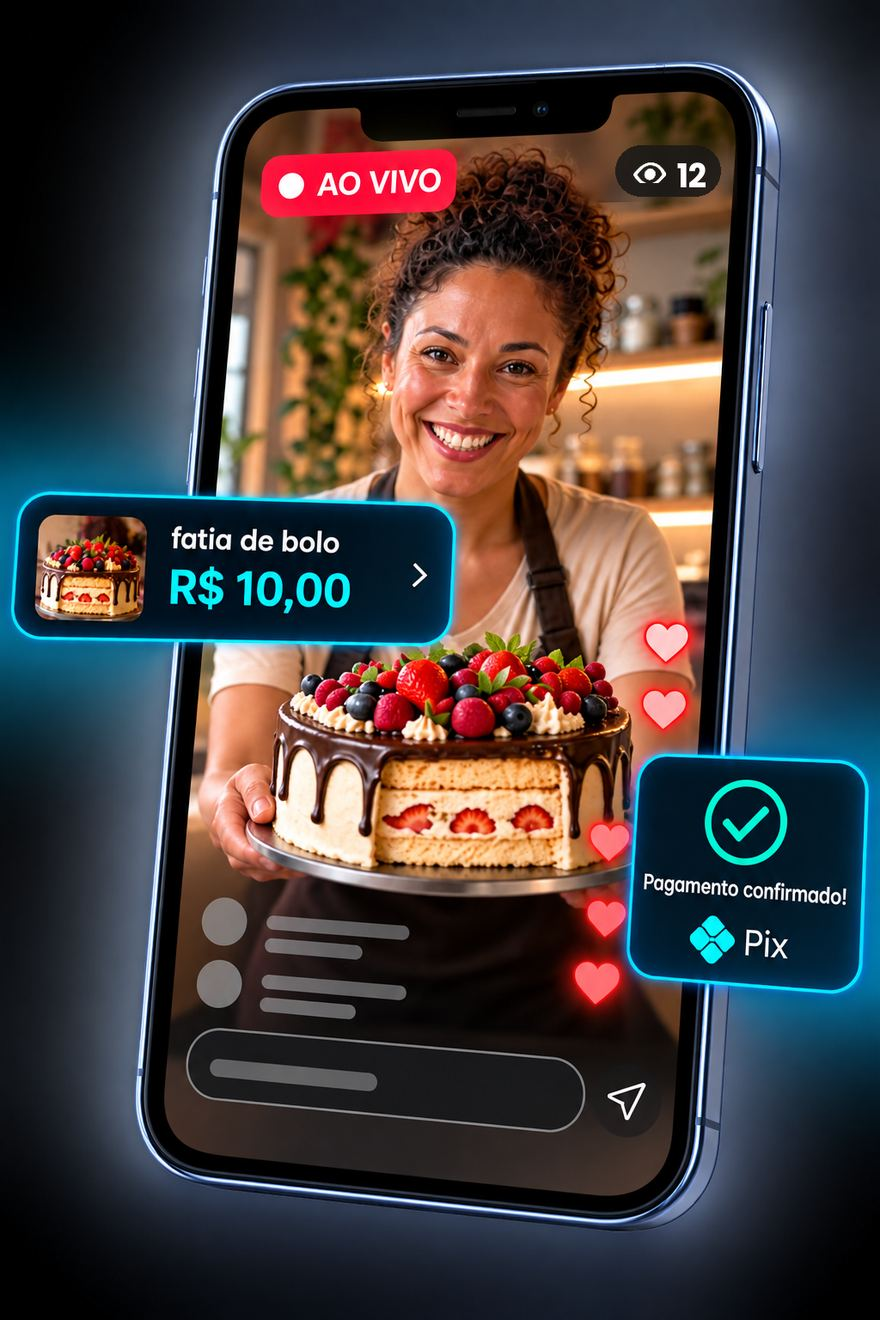
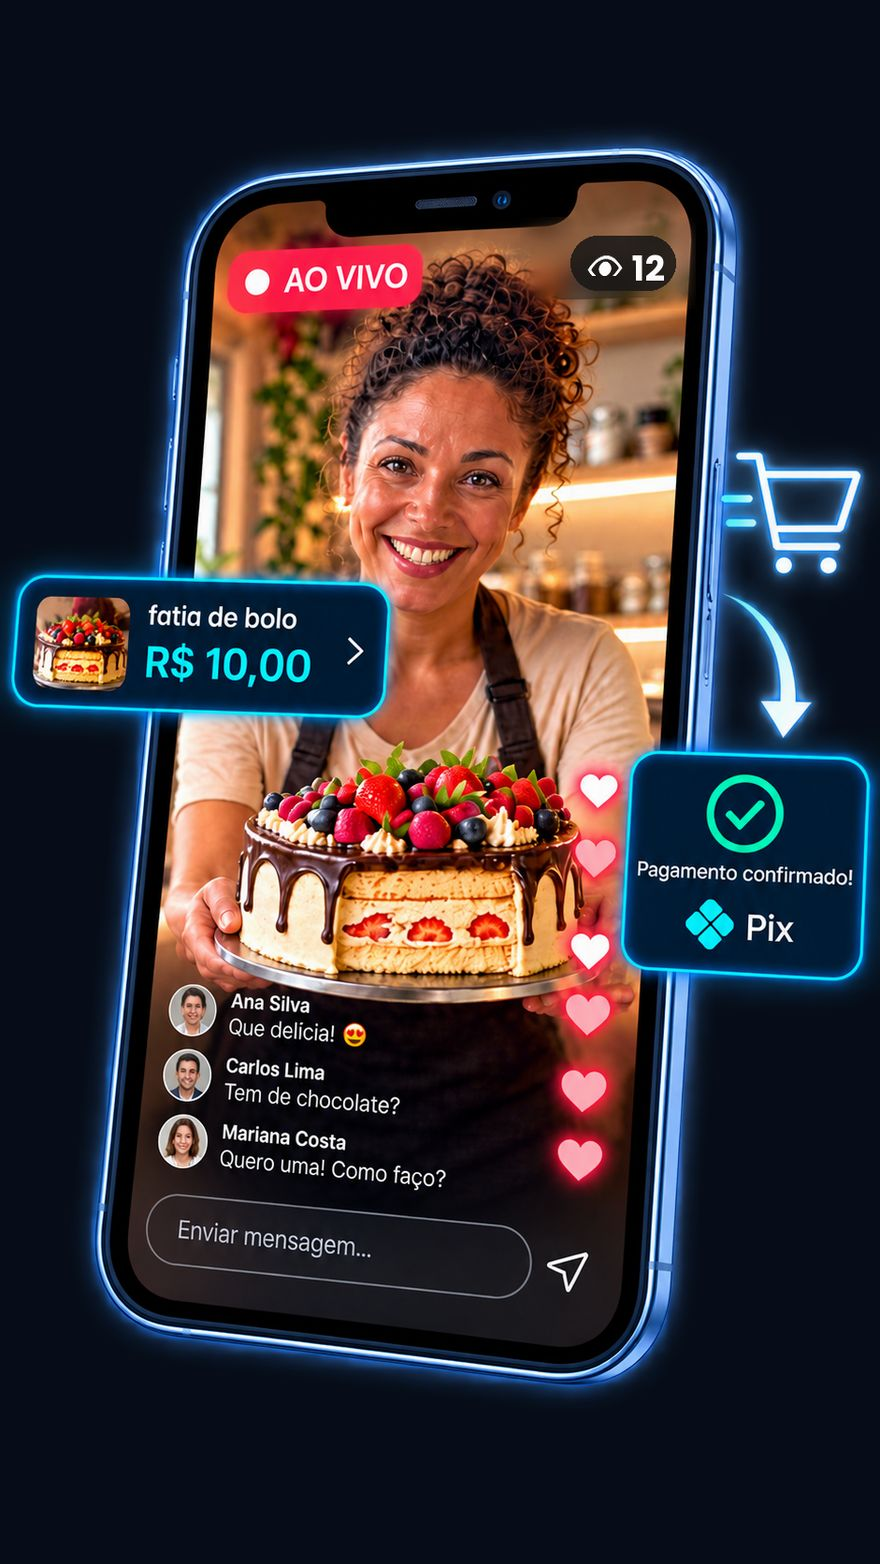
Add files via upload

diff --git a/aovivo.html b/aovivo.html
@@ -136,10 +136,9 @@ h1,h2,h3{letter-spacing:-.8px;line-height:1.12;font-weight:800}
 .avCheck{flex:0 0 21px;width:21px;height:21px;border-radius:50%;margin-top:1px;
   background:rgba(37,227,155,.16);border:1px solid rgba(37,227,155,.5);color:var(--mv-ok);
   display:flex;align-items:center;justify-content:center;font-size:12px;font-weight:800}
-.avFoto{position:relative;justify-self:center;width:100%;max-width:392px}
-.avFoto img{border-radius:var(--mv-r-xl);width:auto;max-width:100%;max-height:min(620px,66vh);margin-inline:auto}
-.avFoto::after{content:"";position:absolute;inset:-8% -6% -4%;z-index:-1;border-radius:50%;
-  background:radial-gradient(closest-side,rgba(0,150,255,.3),transparent 72%);filter:blur(6px)}
+.avFoto{position:relative;justify-self:center;width:100%;max-width:430px}
+.avFoto img{width:auto;max-width:100%;max-height:min(760px,80vh);margin-inline:auto}
+/* o brilho em volta do aparelho vem da propria arte, em PNG/WebP com alfa */
 .avFotoNota{font-size:11.5px;color:var(--mv-txt-3);text-align:center;margin-top:10px;line-height:1.5}
 
 /* ---------- antes x depois ---------- */
@@ -164,6 +163,11 @@ h1,h2,h3{letter-spacing:-.8px;line-height:1.12;font-weight:800}
     linear-gradient(90deg,rgba(0,212,255,.05) 1px,transparent 1px) 0 0/46px 46px,
     #071223}
 .avVideo iframe{width:100%;height:100%;border:0;display:block}
+.avVideo--v{aspect-ratio:9/16;max-width:min(330px,78vw);margin-inline:auto}
+.soMob{display:none}
+.avTrocar{margin:14px auto 0;background:none;border:0;cursor:pointer;
+  font-size:13.5px;font-weight:600;color:var(--mv-txt-3);text-decoration:underline;text-underline-offset:3px}
+.avTrocar:hover{color:var(--mv-ciano)}
 .avVideo__c{position:absolute;inset:0;display:flex;flex-direction:column;align-items:center;justify-content:center;
   gap:16px;text-align:center;padding:20px}
 .avPlay{width:78px;height:78px;border-radius:50%;border:0;cursor:pointer;background:var(--mv-grad);
@@ -263,6 +267,13 @@ h1,h2,h3{letter-spacing:-.8px;line-height:1.12;font-weight:800}
   .avHero{padding-top:18px}
   .avHero h1{font-size:clamp(27px,7.4vw,34px)}
 }
+@media(max-width:760px){
+  /* No celular toca o corte vertical de 60 s; o filme de 2:38 fica a um toque
+     de distancia. Video horizontal longo em tela de celular e abandono. */
+  .soMob{display:block}
+  .soDesk{display:none}
+  em.soMob,span.soMob{display:inline}
+}
 @media(max-width:640px){
   .avNav{height:62px}
   .avDuplo,.avObj,.avPassos,.avRec{grid-template-columns:minmax(0,1fr)}
@@ -273,7 +284,7 @@ h1,h2,h3{letter-spacing:-.8px;line-height:1.12;font-weight:800}
 }
 h1,h2,h3,.avLista li,.avRec h3{overflow-wrap:anywhere}
 </style>
-<script>window.MOVIKI_VERSAO='2026-09-13-aovivo3';</script>
+<script>window.MOVIKI_VERSAO='2026-09-13-aovivo6';</script>
 </head>
 
 <body>
@@ -340,7 +351,7 @@ h1,h2,h3,.avLista li,.avRec h3{overflow-wrap:anywhere}
     <div class="avFoto">
       <picture>
         <source srcset="livehero.webp" type="image/webp">
-        <img src="livehero.jpg" width="880" height="1320" alt="Celular transmitindo ao vivo pelo Moviki: selo AO VIVO, contador de quem est&aacute; assistindo, produto fixado com pre&ccedil;o e confirma&ccedil;&atilde;o de pagamento por Pix." fetchpriority="high" decoding="async">
+        <img src="livehero.png" width="700" height="1244" alt="Celular transmitindo ao vivo pelo Moviki: selo AO VIVO, contador de quem est&aacute; assistindo, produto fixado com pre&ccedil;o e confirma&ccedil;&atilde;o de pagamento por Pix." fetchpriority="high" decoding="async">
       </picture>
       <p class="avFotoNota">Ilustra&ccedil;&atilde;o da tela do Moviki &mdash; os n&uacute;meros s&atilde;o exemplo. Na live de verdade, tudo o que aparece na tela &eacute; contado.</p>
     </div>
@@ -382,20 +393,23 @@ h1,h2,h3,.avLista li,.avRec h3{overflow-wrap:anywhere}
 <section class="avSec" id="filme">
   <div class="avWrap">
     <div class="avCentro" style="margin-bottom:26px">
-      <h2 class="avH2">Entenda o Modo Live <em>em poucos minutos</em></h2>
-      <p class="avLead">Sem jarg&atilde;o e sem tutorial. &Eacute; a hist&oacute;ria de um dia de trabalho que quase n&atilde;o acontece &mdash; e do que muda quando a vitrine passa a falar.</p>
+      <h2 class="avH2">Entenda o Modo Live <em class="soDesk">em poucos minutos</em><em class="soMob">em 1 minuto</em></h2>
+      <p class="avLead soDesk">Sem jarg&atilde;o e sem tutorial. &Eacute; a hist&oacute;ria de um dia de trabalho que quase n&atilde;o acontece &mdash; e do que muda quando a vitrine passa a falar.</p>
+      <p class="avLead soMob">Sem jarg&atilde;o e sem tutorial. Um minuto para ver o que muda quando a vitrine passa a falar.</p>
     </div>
 
     <div class="avVideo" id="avPlayer" onclick="avAbrirVideo()">
       <div class="avVideo__c" id="avFachada">
-        <span class="avTag"><span class="avPonto"></span> Filme do Modo Live</span>
-        <button class="avPlay" type="button" aria-label="Assistir ao filme do Modo Live" data-ev="aovivo_play">
+        <span class="avTag"><span class="avPonto"></span> <span class="soDesk">Filme do Modo Live</span><span class="soMob">Moviki ao vivo &middot; 1 min</span></span>
+        <button class="avPlay" type="button" aria-label="Assistir ao v&iacute;deo do Modo Live" data-ev="aovivo_play">
           <svg viewBox="0 0 24 24" aria-hidden="true"><path d="M8 5v14l11-7z"/></svg>
         </button>
-        <p class="avVideo__t">Vender ao vivo pelo celular, sem loja e sem est&uacute;dio</p>
+        <p class="avVideo__t soDesk">Vender ao vivo pelo celular, sem loja e sem est&uacute;dio</p>
+        <p class="avVideo__t soMob">Mostre. Responda. Venda em tempo real.</p>
         <p class="avVideo__s">O v&iacute;deo s&oacute; carrega quando voc&ecirc; toca em assistir.</p>
       </div>
     </div>
+    <button class="avTrocar soMob" type="button" data-ev="aovivo_filme_completo" onclick="avAbrirVideo(AV_FILME)">Prefere a hist&oacute;ria inteira? Ver o filme completo &middot; 2:38</button>
   </div>
 </section>
 
@@ -708,13 +722,29 @@ document.addEventListener('keydown',function(e){ if(e.key==='Escape')avMenu(fals
    para i.ytimg.com. O que a CSP do dominio precisa liberar e apenas:
    frame-src https://www.youtube-nocookie.com
    Sem isso, o video nao abre e NAO da erro visivel. */
-var AV_YT='n2nmTfGY_mo';
-function avAbrirVideo(){
+var AV_FILME='n2nmTfGY_mo';   /* 2:38, 16:9  — a historia inteira */
+var AV_CURTO='3Q5b0Q0PPh4';   /* 60 s, 9:16  — corte vertical, canal Moviki App */
+function avPecaDaVez(){
+  return (window.matchMedia && window.matchMedia('(max-width:760px)').matches) ? AV_CURTO : AV_FILME;
+}
+/* o palco nasce vertical no celular para nao deixar tarja preta em volta do corte */
+(function(){
+  function ajustar(){
+    var cx=document.getElementById('avPlayer');
+    if(!cx||cx.dataset.on==='1')return;
+    cx.classList.toggle('avVideo--v', avPecaDaVez()===AV_CURTO);
+  }
+  ajustar();
+  window.addEventListener('resize',ajustar);
+})();
+function avAbrirVideo(id){
   var cx=document.getElementById('avPlayer');
   if(!cx||cx.dataset.on==='1')return;
+  var vid = (typeof id==='string' && id) ? id : avPecaDaVez();
   cx.dataset.on='1';
+  cx.classList.toggle('avVideo--v', vid===AV_CURTO);
   var f=document.createElement('iframe');
-  f.src='https://www.youtube-nocookie.com/embed/'+AV_YT+'?autoplay=1&rel=0&modestbranding=1&playsinline=1';
+  f.src='https://www.youtube-nocookie.com/embed/'+vid+'?autoplay=1&rel=0&modestbranding=1&playsinline=1';
   f.title='Filme do Modo Live do Moviki';
   f.allow='accelerometer; autoplay; clipboard-write; encrypted-media; gyroscope; picture-in-picture; web-share';
   f.setAttribute('allowfullscreen','');
@@ -722,7 +752,7 @@ function avAbrirVideo(){
   cx.innerHTML='';
   cx.appendChild(f);
   cx.style.cursor='default';
-  try{ if(window.mvEv) window.mvEv('video_play',{video:'filme_hero',pagina:'aovivo'}); }catch(e){}
+  try{ if(window.mvEv) window.mvEv('video_play',{video:(vid===AV_CURTO?'corte_vertical_60s':'filme_hero'),pagina:'aovivo'}); }catch(e){}
 }
 </script>
 
